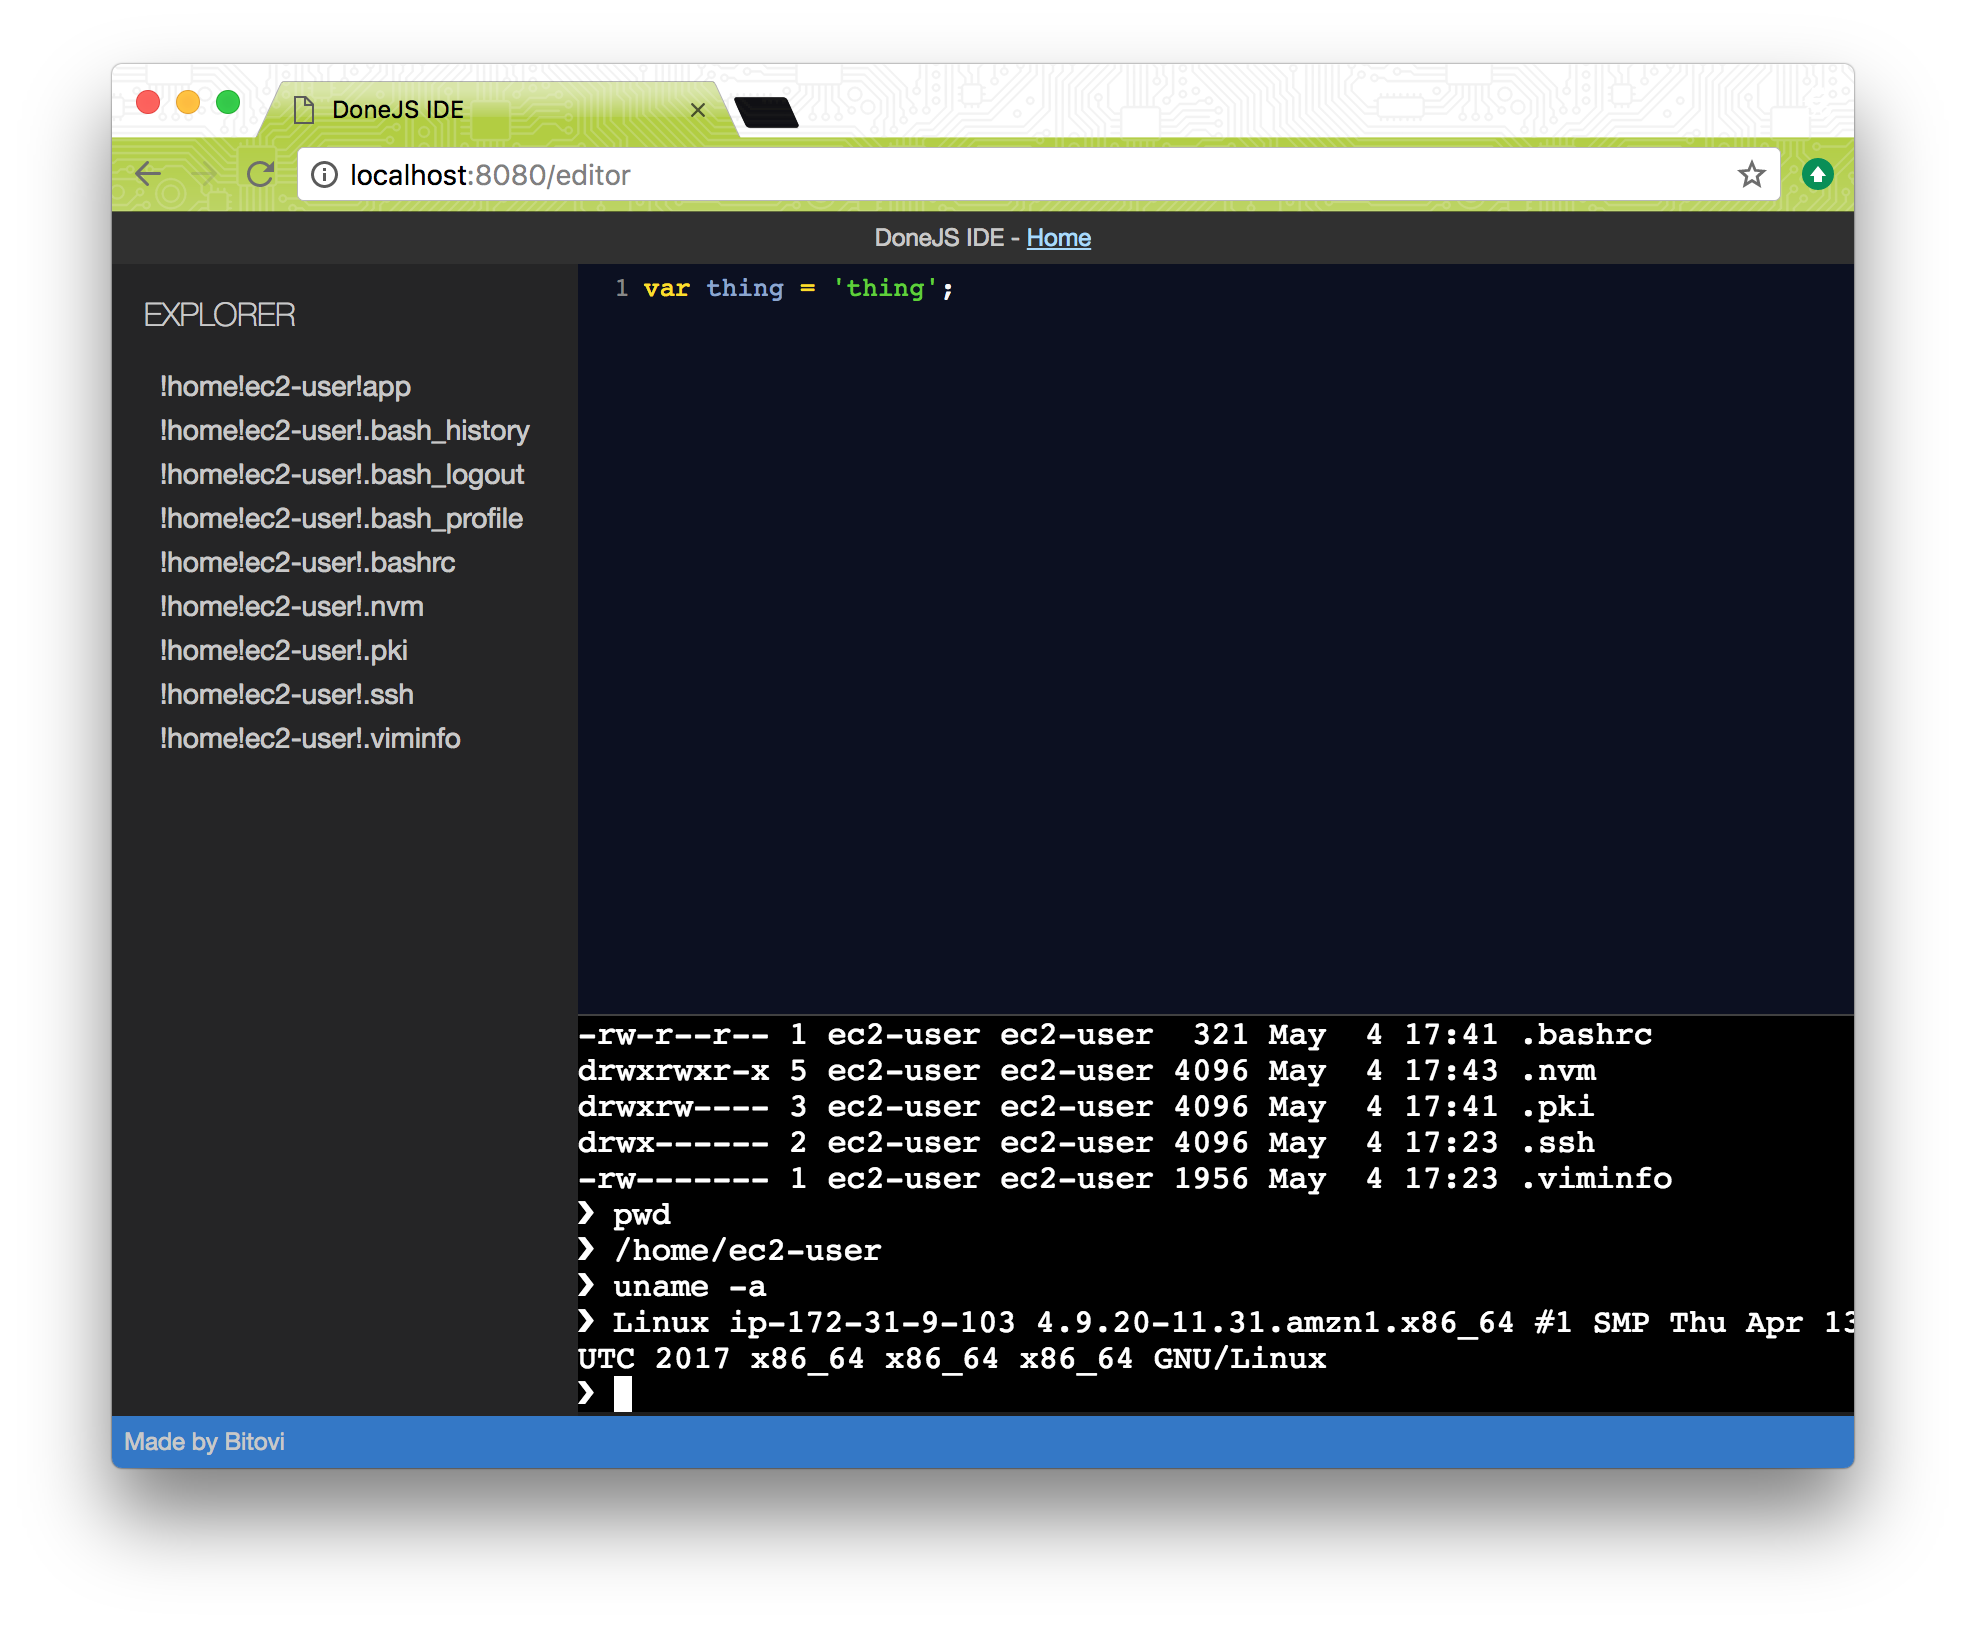
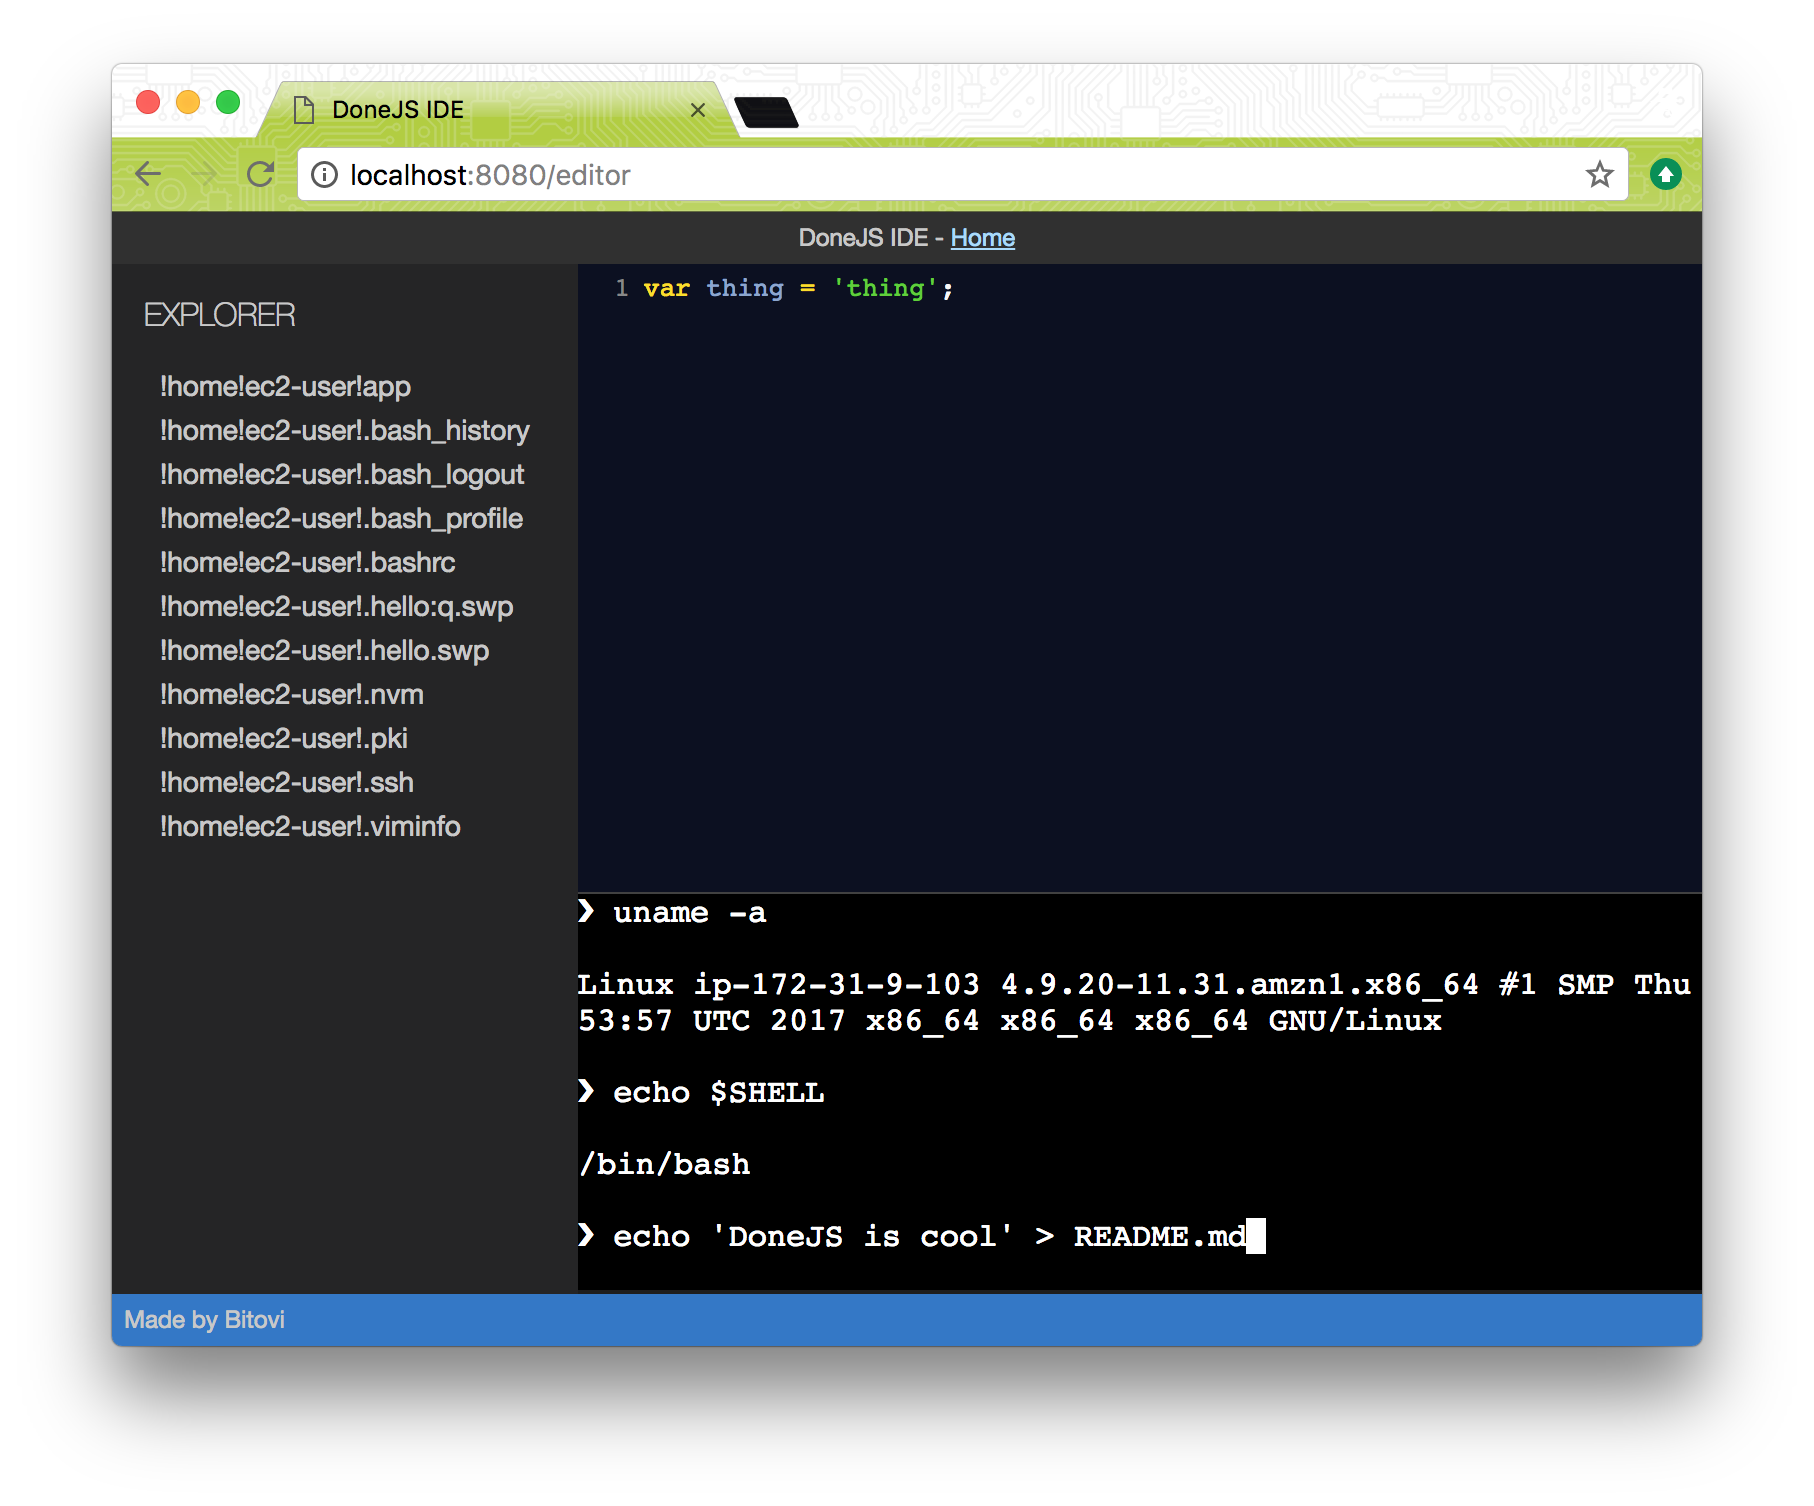
Better prompt display

Changed region(s): [[0.0309, 0.0312, 0.957, 0.905]]

diff --git a/src/editor/editor.js b/src/editor/editor.js
@@ -40,7 +40,9 @@ export default Component.extend({
             var commandToSend = promptLine.map((item) => item[1]).join('');
             console.log('ENTER EVENT', commandToSend);
             vm.cmdRunner(commandToSend).then(function (response) {
+              vm.xterm.writeln("\r\n");
               vm.xterm.write(response.replace(/\r?\n/g, "\r\n"));
+              vm.xterm.writeln('');
               vm.xterm.prompt();
             }).catch(function (err) {
               console.log('COMMAND RUNNER ERROR', err);
